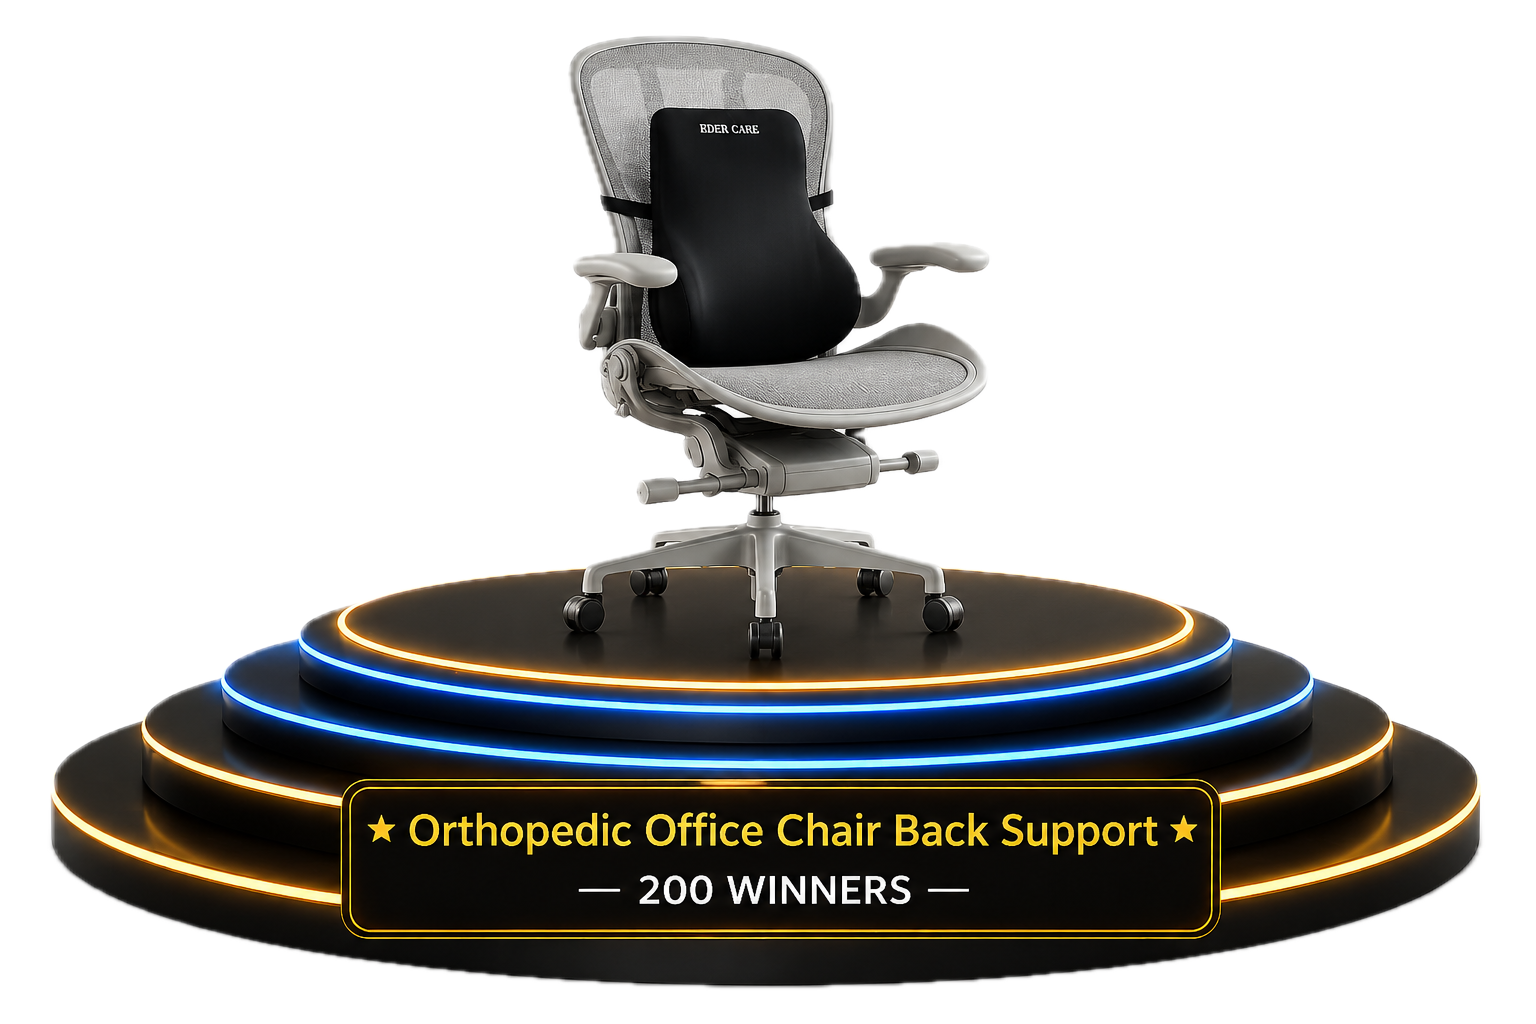
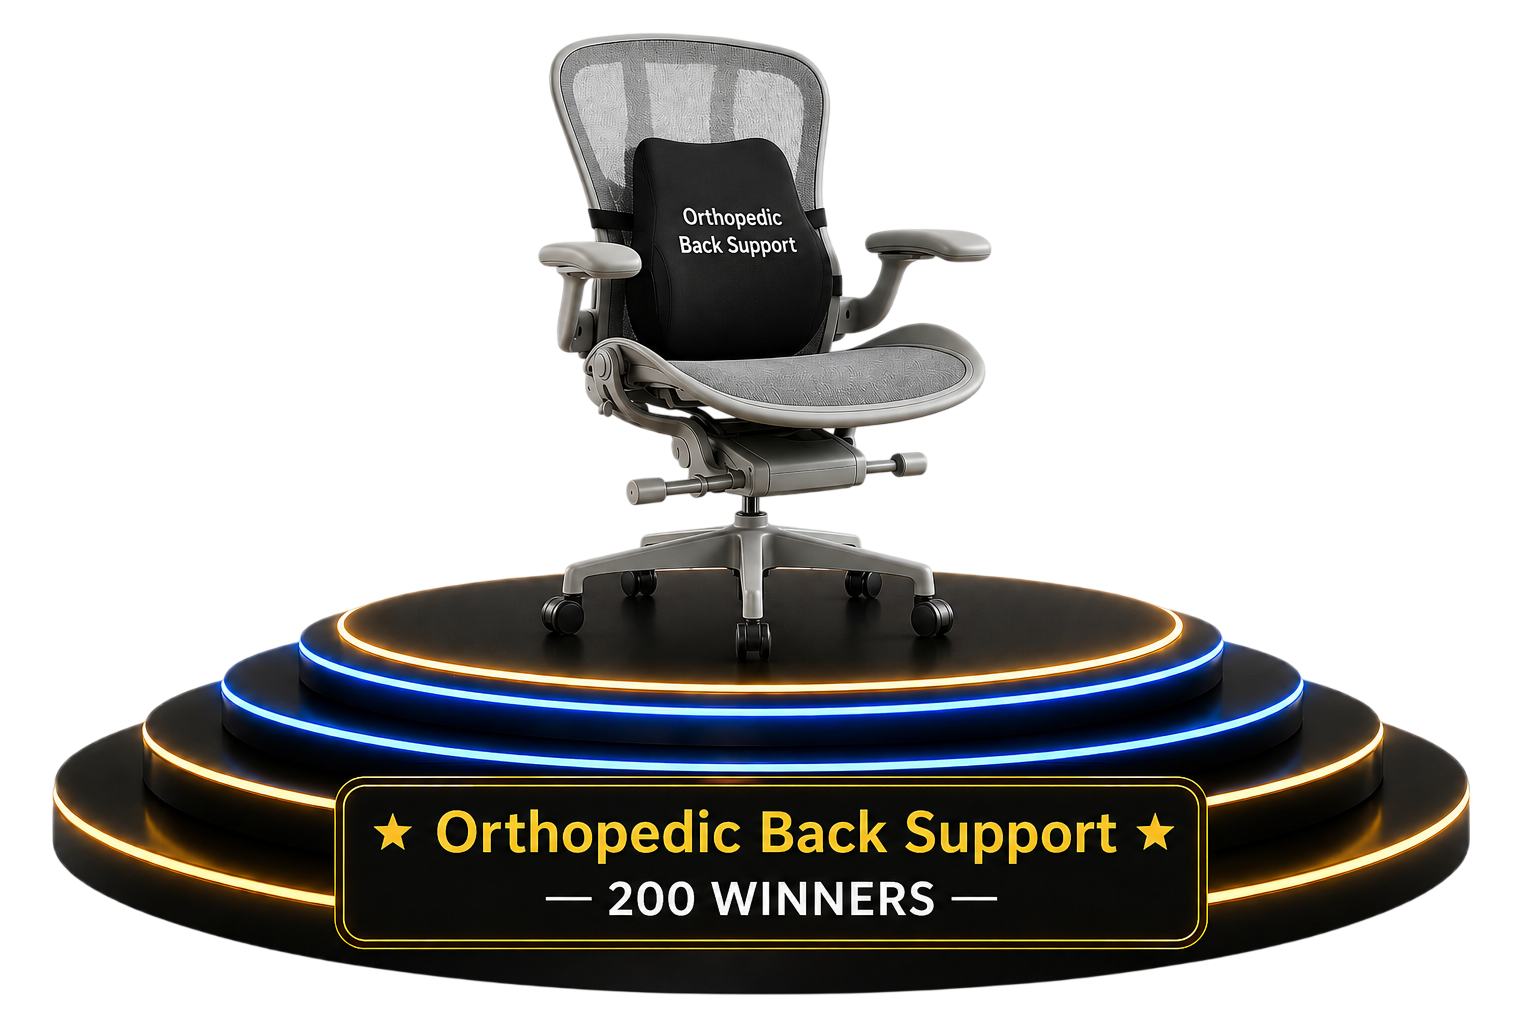
Update 5th prize text and images

diff --git a/src/pages/Home.jsx b/src/pages/Home.jsx
@@ -207,8 +207,8 @@ const Home = () => {
                    alt="Orthopedic Chair" className="pcard-img" style={{animationDelay: "0.4s"}}/>
             </div>
             <div className="pcard-rank-art" style={{display: "flex", alignItems: "center", justifyContent: "center", gap: "6px"}}><svg width="24" height="24" viewBox="0 0 24 24" fill="none" stroke="currentColor" stroke-width="2.5" stroke-linecap="round" stroke-linejoin="round"><polygon points="12 2 15.09 8.26 22 9.27 17 14.14 18.18 21.02 12 17.77 5.82 21.02 7 14.14 2 9.27 8.91 8.26 12 2"/></svg> 5TH PRIZE</div>
-            <div className="pcard-name">ORTHOPEDIC CHAIR<br/>BACK SUPPORT</div>
-            <div className="pcard-sub">Ergonomic</div>
+            <div className="pcard-name">Orthopedic Back<br/>Support Prize</div>
+            <div className="pcard-sub">&nbsp;</div>
             <span className="pcard-qty">🎁 × 200 Winners</span>
             <div className="pcard-hint">🎯 View &amp; Spin</div>
           </div>
